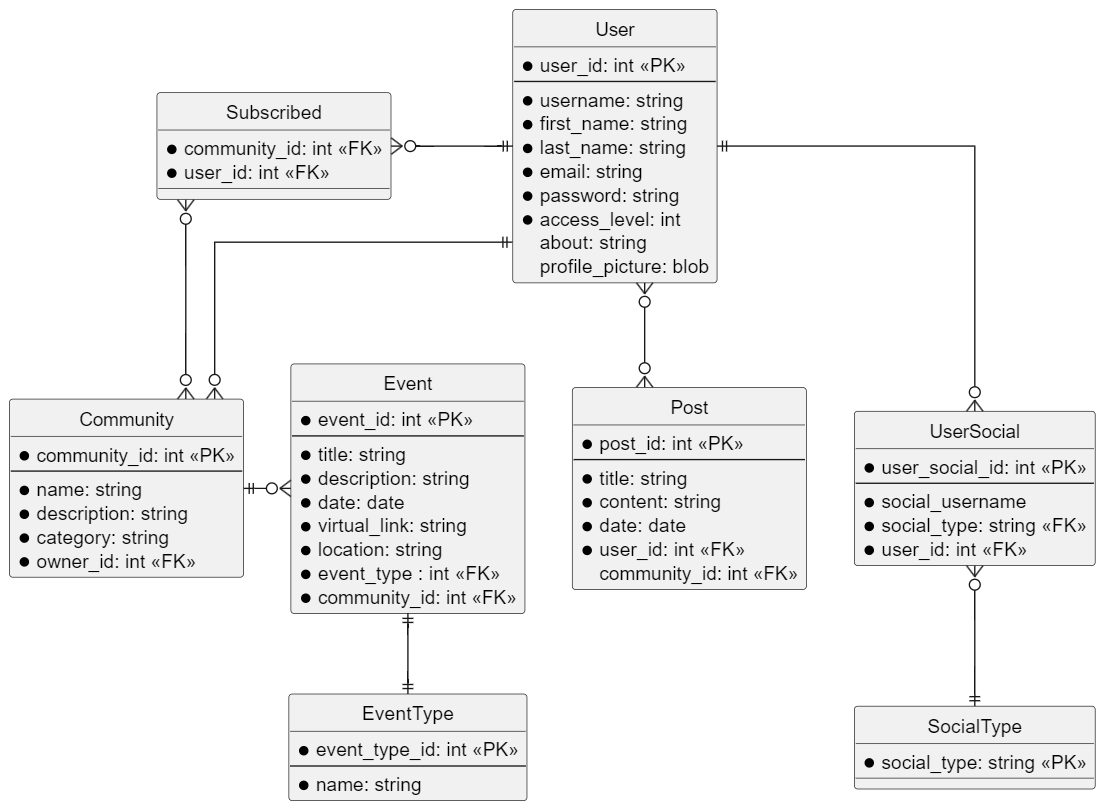
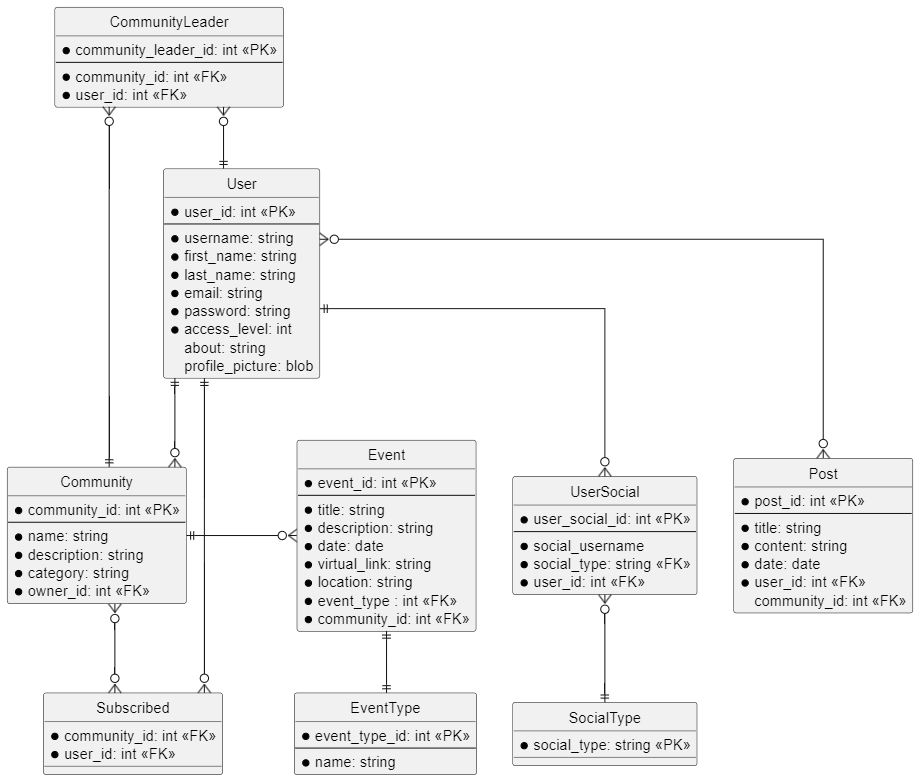
Added new table + small migration fixes

diff --git a/src/backend/app/migrations/0004_communityleader.py b/src/backend/app/migrations/0004_communityleader.py
@@ -1,0 +1,27 @@
+# Generated by Django 4.2 on 2025-03-10 11:59
+
+from django.conf import settings
+from django.db import migrations, models
+import django.db.models.deletion
+
+
+class Migration(migrations.Migration):
+
+    dependencies = [
+        ('app', '0003_socialtype_usersocial'),
+    ]
+
+    operations = [
+        migrations.CreateModel(
+            name='CommunityLeader',
+            fields=[
+                ('community_leader_id', models.AutoField(primary_key=True, serialize=False)),
+                ('community_id', models.ForeignKey(on_delete=django.db.models.deletion.CASCADE, to='app.community')),
+                ('user_id', models.ForeignKey(on_delete=django.db.models.deletion.CASCADE, to=settings.AUTH_USER_MODEL)),
+            ],
+            options={
+                'db_table': 'CommunityLeader',
+                'unique_together': {('community_id', 'user_id')},
+            },
+        ),
+    ]

diff --git a/src/backend/app/models.py b/src/backend/app/models.py
@@ -95,3 +95,12 @@ class UserSocial(models.Model):
     
     def __str__(self):
         return f"{self.user.username} - {self.social_type.name}: {self.name}"
+
+class CommunityLeader(models.Model):
+    community_leader_id = models.AutoField(primary_key=True)
+    community = models.ForeignKey(Community, on_delete=models.CASCADE) # Django will append _id in DB
+    user = models.ForeignKey(User, on_delete=models.CASCADE) # Django will append _id in DB
+
+    class Meta:
+        db_table = 'CommunityLeader'
+        unique_together = ('community', 'user') # A user can only be a leader of one community once
